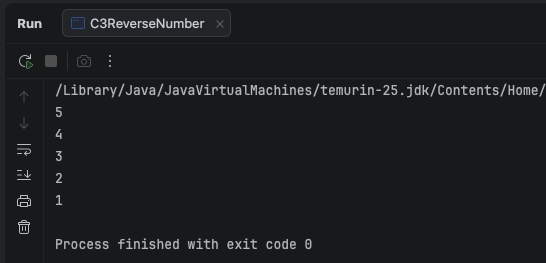
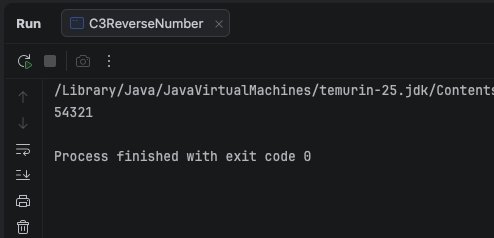
fix: 3주차 과제 피드백 반영

diff --git a/week03/C3ReverseNumber.java b/week03/C3ReverseNumber.java
@@ -2,25 +2,47 @@ package week03;
 
 public class C3ReverseNumber {
     public static void main(String[] args) {
-        // 도전 3
+        // 도전 3 단순 출력방식
         int number = 12345;
 
-        System.out.println(number % 10);
+        System.out.print(number % 10);
         number /= 10;
         // System.out.println(number);
 
-        System.out.println(number % 10);
+        System.out.print(number % 10);
         number /= 10;
         // System.out.println(number);
 
-        System.out.println(number % 10);
+        System.out.print(number % 10);
         number /= 10;
         // System.out.println(number);
 
-        System.out.println(number % 10);
+        System.out.print(number % 10);
         number /= 10;
         // System.out.println(number);
 
-        System.out.println(number % 10);
+        System.out.print(number % 10);
+
+        System.out.println("");
+
+        // 도전 3 수치 연산 및 누적 방식
+        int number2 = 12345;
+        int reversed = 0;
+
+        reversed = reversed * 10 + number2 % 10;    // 0 * 10 + 5     = 5
+        number2 /= 10;                              // 1234
+
+        reversed = reversed * 10 + number2 % 10;    // 5 * 10 + 4     = 54
+        number2 /= 10;                              // 123
+
+        reversed = reversed * 10 + number2 % 10;    // 54 * 10 + 3    = 543
+        number2 /= 10;                              // 12
+
+        reversed = reversed * 10 + number2 % 10;    // 543 * 10 + 2   = 5432
+        number2 /= 10;                              // 1
+
+        reversed = reversed * 10 + number2 % 10;    // 5432 * 10 + 1  = 54321
+
+        System.out.println(reversed);              // 54321
     }
 }

diff --git a/week03/HW3_2AverageCalc.java b/week03/HW3_2AverageCalc.java
@@ -3,23 +3,24 @@ package week03;
 public class HW3_2AverageCalc {
     public static void main(String[] args) {
         // 3-2 전부 int
-        int kor_int= 85;
-        int eng_int = 90;
-        int mat_int = 78;
-        int total_int = kor_int + eng_int + mat_int;
-        int evg_int = total_int / 3;
-        System.out.println("전부 int " + evg_int);
+        int korInt= 85;
+        int engInt = 90;
+        int matInt = 78;
+        int totalInt = korInt + engInt + matInt;
+        final int SUBJECT_COUNT = 3;
+        int avgInt = totalInt / SUBJECT_COUNT;
+        System.out.println("전부 int " + avgInt);
 
         // 3-2 double로 수정
-        double kor_double = 85;
-        double eng_double = 90;
-        double mat_double = 78;
-        double total_double = kor_double + eng_double + mat_double;
-        double evg_double = total_double / 3;
-        System.out.println("모든 값을 double로 수정 " + evg_double);
+        double korDouble = 85;
+        double engDouble = 90;
+        double matDouble = 78;
+        double totalDouble = korDouble + engDouble + matDouble;
+        double avgDouble = totalDouble / SUBJECT_COUNT;
+        System.out.println("모든 값을 double로 수정 " + avgDouble);
 
         // 3-2 (double) 수정 (나누기 전에 붙이기)
-        double evg_cast = (double) total_int / 3;
-        System.out.println("나누기 전에 (double)를 붙이기 " + evg_cast);
+        double avgCast = (double) totalInt / SUBJECT_COUNT;
+        System.out.println("나누기 전에 (double)를 붙이기 " + avgCast);
     }
 }

diff --git a/week03/HW3_4Increment.java b/week03/HW3_4Increment.java
@@ -8,12 +8,12 @@ public class HW3_4Increment {
         System.out.println("i " + i); // 출력: 11 (10을 출력 후 i++ 이므로 1이 증가한 11이 됨)
 
         int j = 10;
-        System.out.println("j++ " + ++j); // 출력: 11 (현재 값인 10에 1이 증가한 11이 출력)
+        System.out.println("++j  " + ++j); // 출력: 11 (현재 값인 10에 1이 증가한 11이 출력)
         System.out.println("j " + j); // 출력: 11 (증가를 먼저 했기 때문에 여전히 11)
 
         // i = i++;
-         int k = 5;
-         k = k++;
-         System.out.println("k " + k);
+        int k = 5;
+        k = k++;
+        System.out.println("k " + k);
     }
 }

diff --git a/week03/C1ChangeCalculator.java b/week03/C1ChangeCalculator.java
@@ -17,6 +17,9 @@ public class C1ChangeCalculator {
         amount %= 500;
         int oneHundred = amount / 100;
 
+        // 원래 값을 다시 사용하려면 별도로 저장하고 사용하지 않을게 확실하다면 덮어쓰기
+        // System.out.println(amount + "원의 거스름돈은");
+
         System.out.println("50,000 " + fiftyThousand + "장");
         System.out.println("10,000 " + tenThousand + "장");
         System.out.println("5,000 " + fiveThousand + "장");

diff --git a/week03/HW3_3DigitSplit.java b/week03/HW3_3DigitSplit.java
@@ -5,7 +5,7 @@ public class HW3_3DigitSplit {
         // 3-3
         int number = 472;
         int hundred = number / 100;
-        int ten = number % 100 / 10;
+        int ten = number % 100 / 10; // number / 10 % 10 도 가능
         int one = number % 10;
         System.out.println(hundred + " " + ten + " " + one);
     }

diff --git a/week03/HW3_1TimeConverter.java b/week03/HW3_1TimeConverter.java
@@ -9,6 +9,6 @@ public class HW3_1TimeConverter {
         int minute = remainder / 60;
         int second = remainder % 60;
 
-        System.out.println(hour + "시간 " + minute + "분 " + second + "초 " );
+        System.out.println(hour + "시간 " + minute + "분 " + second + "초" );
     }
 }

diff --git a/week03/C2SecondsToDHMS.java b/week03/C2SecondsToDHMS.java
@@ -14,7 +14,7 @@ public class C2SecondsToDHMS {
         int minutes = total / 60;
         total %= 60;
 
-        int seconds = total % 60;
+        int seconds = total;
 
         System.out.println(day + "일 " + hour + "시간 " + minutes + "분 " + seconds + "초 ");
     }

diff --git a/week03/Week03.java b/week03/Week03.java
@@ -1,7 +1,7 @@
 package week03;
 
 public class Week03 {
-    static void main(String[] args) {
+    public static void main(String[] args) {
         int a = 7, b = 2;
 
         System.out.println(a + b);

diff --git a/week03/README.md b/week03/README.md
@@ -32,6 +32,11 @@
 오류가 안 나는데 답이 틀리는 경우입니다.
 
 #### - 실행 결과
+```
+전부 int 84
+모든 값을 double로 수정 84.33333333333333
+나누기 전에 (double)를 붙이기 84.33333333333333
+```
 ![3-2 실행 결과](./images/3-2.png)
 ***
 
@@ -95,11 +100,16 @@ Exception in thread "main" java.lang.ArithmeticException: / by zero
 
 
 #### - 2번 실행 결과
+```
+Infinity
+```
 ![실행 결과](./images/3-5-2.png)
 
 #### - 1번과 2번 차이점 
 1번: 10과 0이 모두 정수(int)   
 2번: 10.0이 실수이고 뒤의 0이 0.0으로 자동 전환되어 10.0 / 0.0으로 계산
+정수 나눗셈(10 / 0)은 수학적으로 불가능하여 예외(ArithmeticException)를 내며 터지지만   
+실수 나눗셈(10.0 / 0)은 IEEE 754 부동소수점 표준에 따라 무한대 값인 Infinity를 반환하며 정상 작동함
 ***
 
 ### 3-6. 계산 순서
